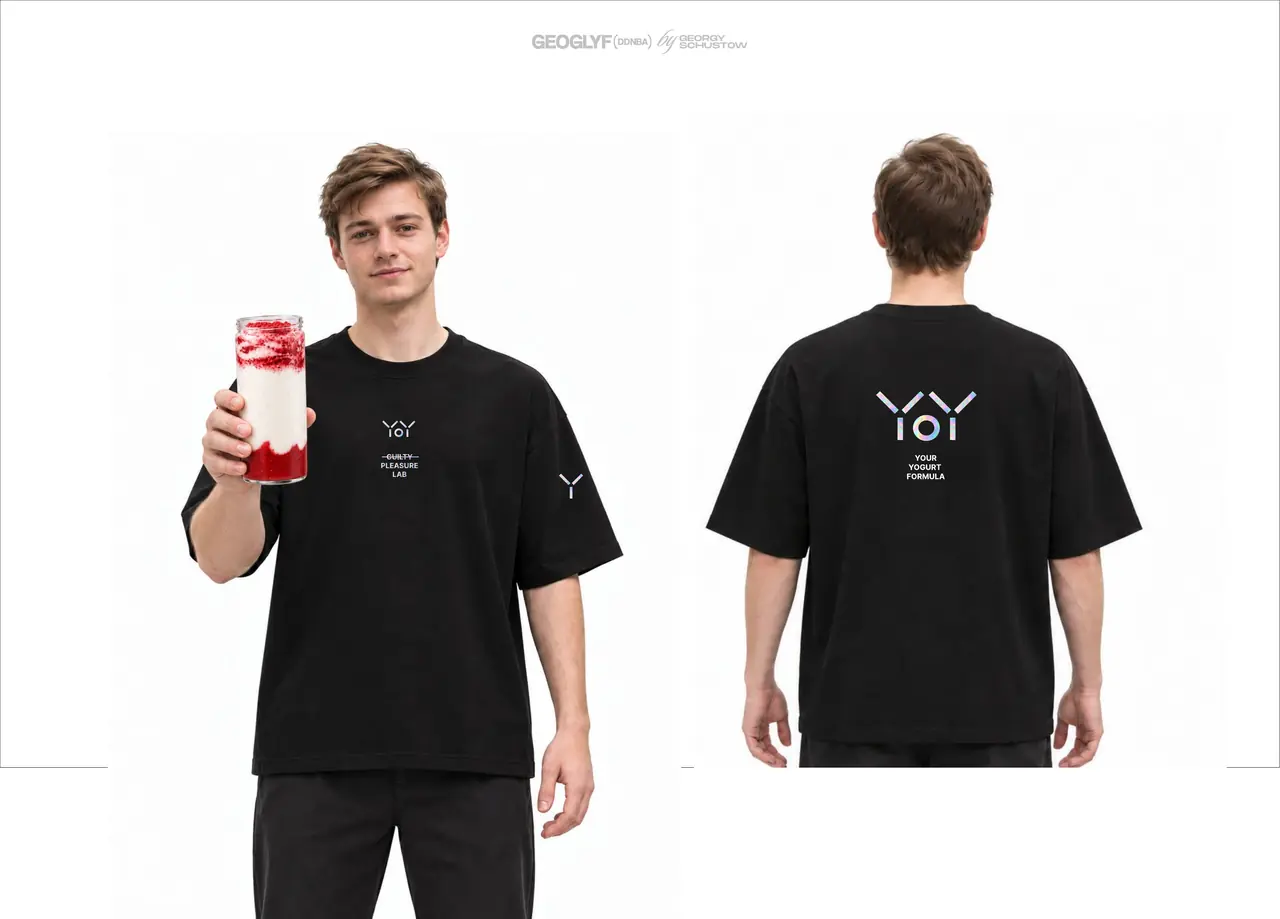
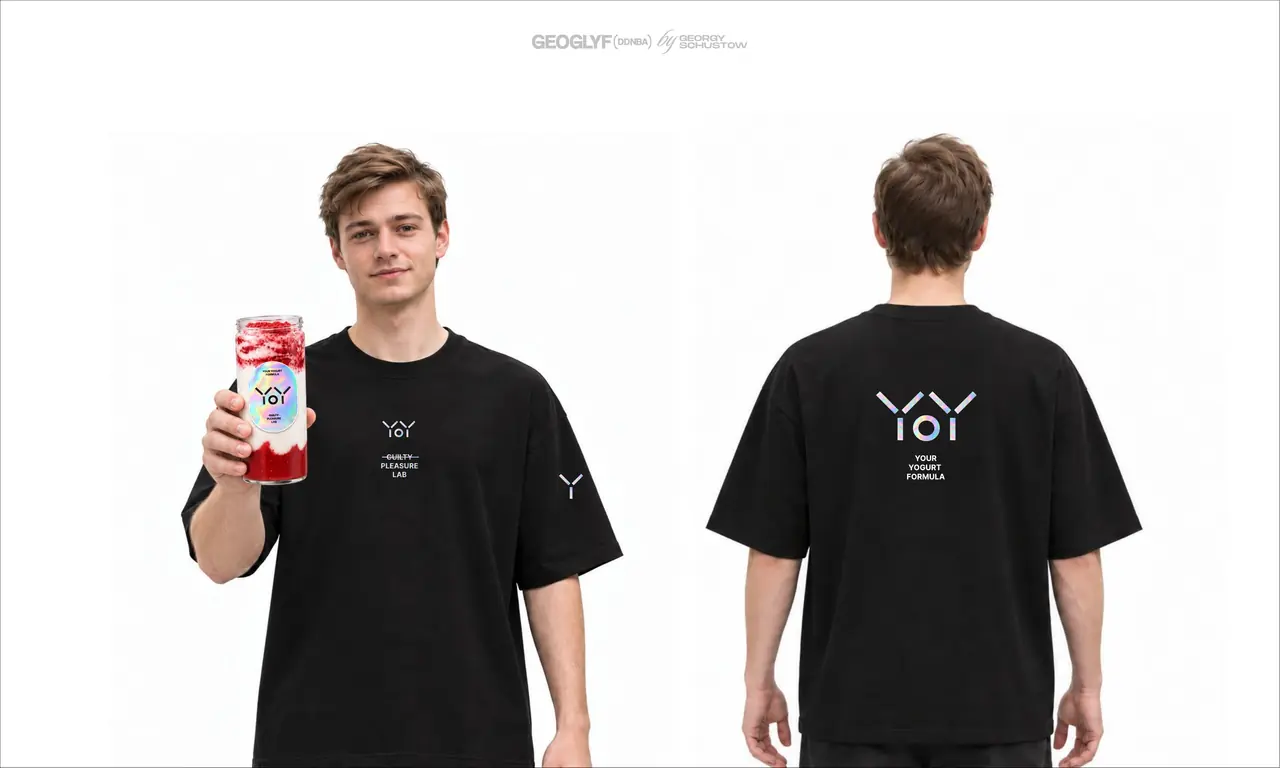
Слайды 21 и 23 заменены, в конец добавлен 24-й
21: футболка — Frame 11 (теперь в формате 5:3, как остальные).
23: иконки приложения — Frame 16.
24: логотип на карамельном фоне — Frame 23.
Всего 24 слайда, версия картинок ?v=6.

Claude-Session: https://claude.ai/code/session_01Lp3Q6ktycZ9twvzzsKVyRs

diff --git a/index.html b/index.html
@@ -4,7 +4,7 @@
 <meta charset="utf-8">
 <meta name="viewport" content="width=device-width, initial-scale=1, maximum-scale=1, user-scalable=no, viewport-fit=cover">
 <title>YOY — Pleasure Lab · концепция</title>
-<meta name="description" content="YOY — Pleasure Lab. Your Pleasure Formula Yogurt. Концепция бренда, 23 слайда.">
+<meta name="description" content="YOY — Pleasure Lab. Your Pleasure Formula Yogurt. Концепция бренда, 24 слайда.">
 <meta property="og:title" content="YOY — Pleasure Lab">
 <meta property="og:description" content="Your Pleasure Formula Yogurt — концепция бренда">
 <meta property="og:type" content="website">
@@ -206,7 +206,7 @@ body.zoomed #track { overflow-x: hidden; touch-action: none; }
 <header class="top">
   <div class="title"><b>YOY — Pleasure Lab</b><span>Концепция бренда</span></div>
   <div class="ctrls">
-    <span class="count" id="count" aria-live="polite">1 / 23</span>
+    <span class="count" id="count" aria-live="polite">1 / 24</span>
     <button class="icon" id="gridBtn" aria-label="Все слайды" title="Все слайды (G)">
       <svg width="20" height="20" viewBox="0 0 20 20" fill="none" stroke="currentColor" stroke-width="1.6"><rect x="2.5" y="2.5" width="6" height="6" rx="1.5"/><rect x="11.5" y="2.5" width="6" height="6" rx="1.5"/><rect x="2.5" y="11.5" width="6" height="6" rx="1.5"/><rect x="11.5" y="11.5" width="6" height="6" rx="1.5"/></svg>
     </button>
@@ -246,12 +246,12 @@ body.zoomed #track { overflow-x: hidden; touch-action: none; }
 
 <script>
 (() => {
-  // Width / height of each slide (slides 8, 12 and 21 are taller than the rest).
-  const AR = [1.6672,1.6672,1.6672,1.6672,1.6672,1.6672,1.6672,1.5432,1.6672,1.6672,1.6672,1.6141,1.6672,1.6672,1.6672,1.6672,1.6672,1.6672,1.6672,1.6672,1.3926,1.6672,1.6672];
+  // Width / height of each slide (slides 8 and 12 are taller than the rest).
+  const AR = [1.6672,1.6672,1.6672,1.6672,1.6672,1.6672,1.6672,1.5432,1.6672,1.6672,1.6672,1.6141,1.6672,1.6672,1.6672,1.6672,1.6672,1.6672,1.6672,1.6672,1.6672,1.6672,1.6672,1.6672];
   const N = AR.length;
   const id = i => String(i + 1).padStart(2, '0');
   // Bump V when slide images change so cached copies are not reused.
-  const V = 5;
+  const V = 6;
   const src = (i, size) => `slides/${id(i)}-${size}.webp?v=${V}`;
 
   const $ = s => document.getElementById(s);
